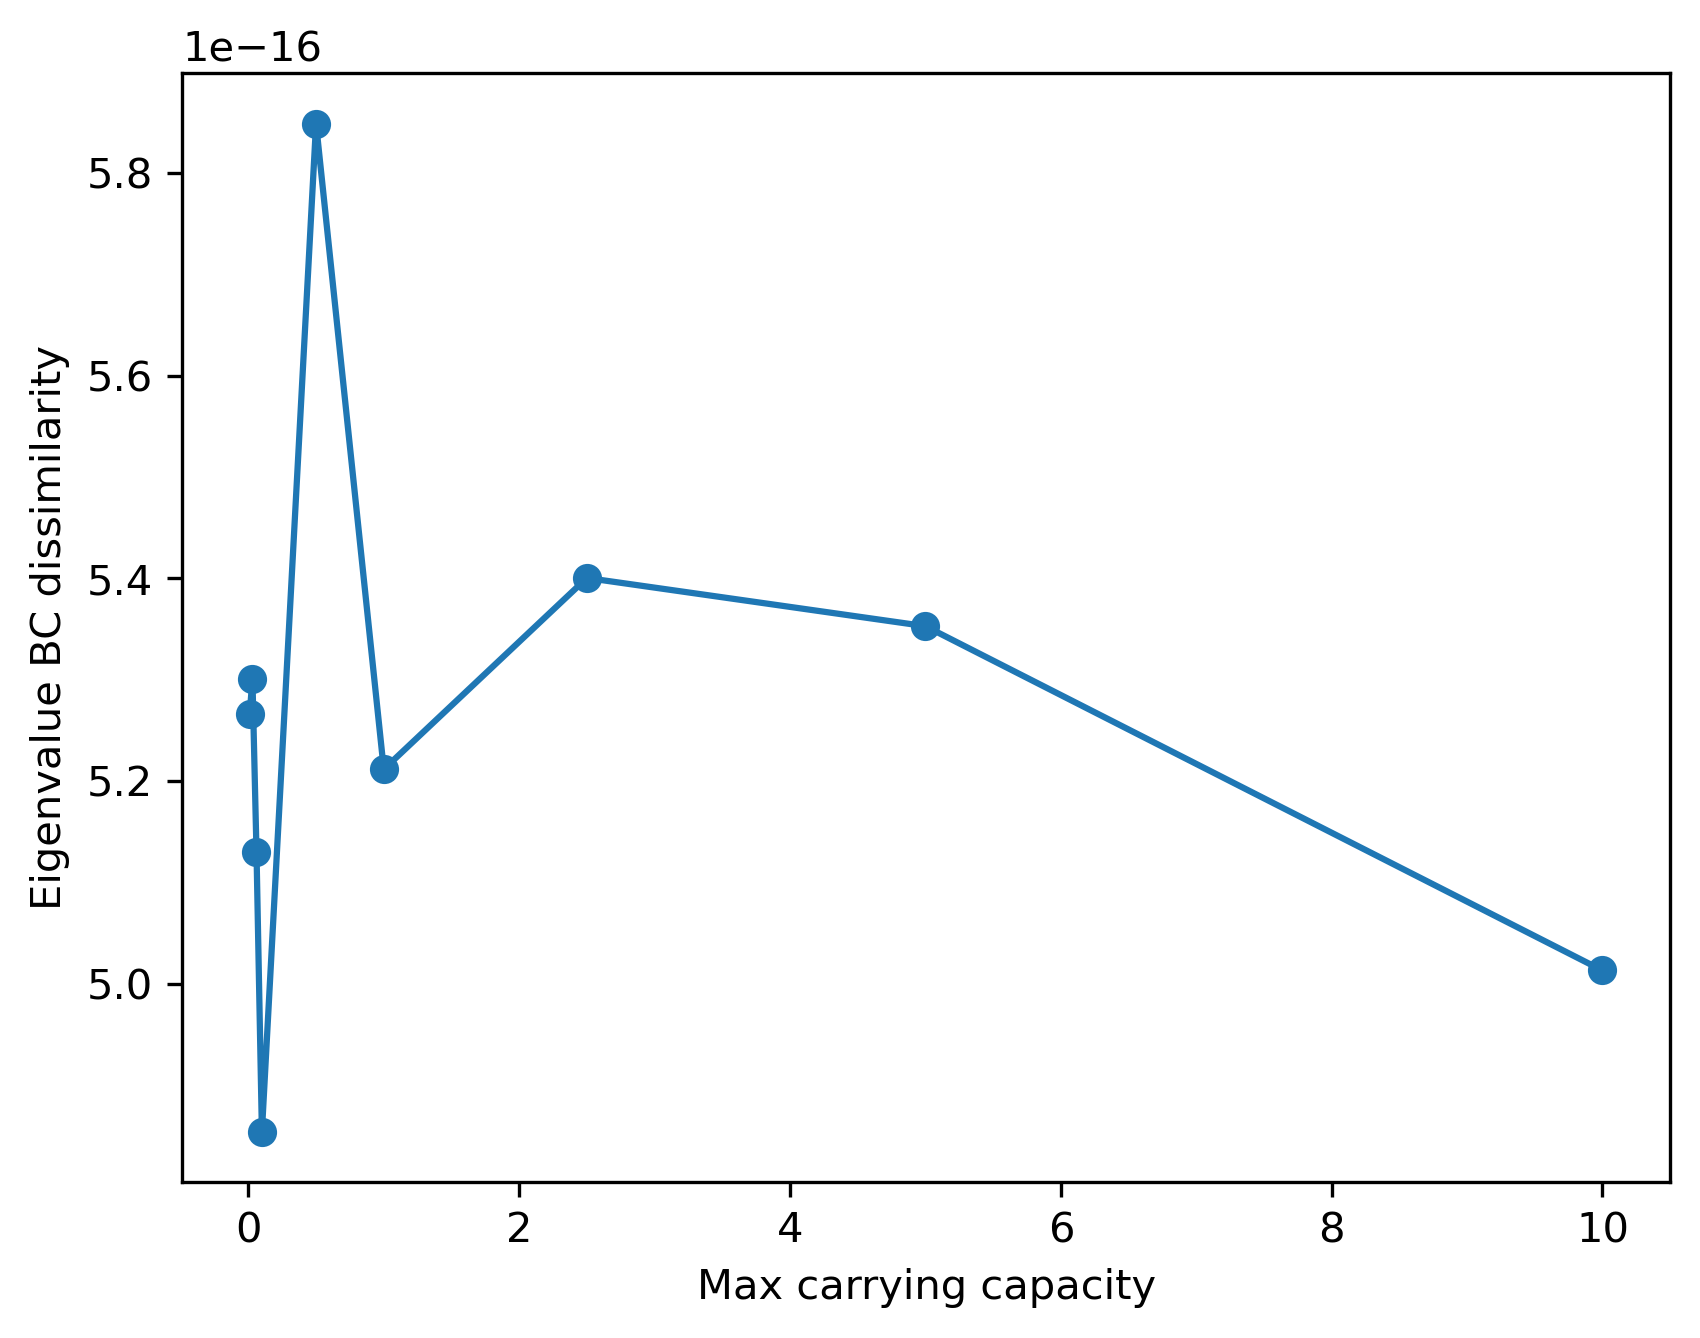
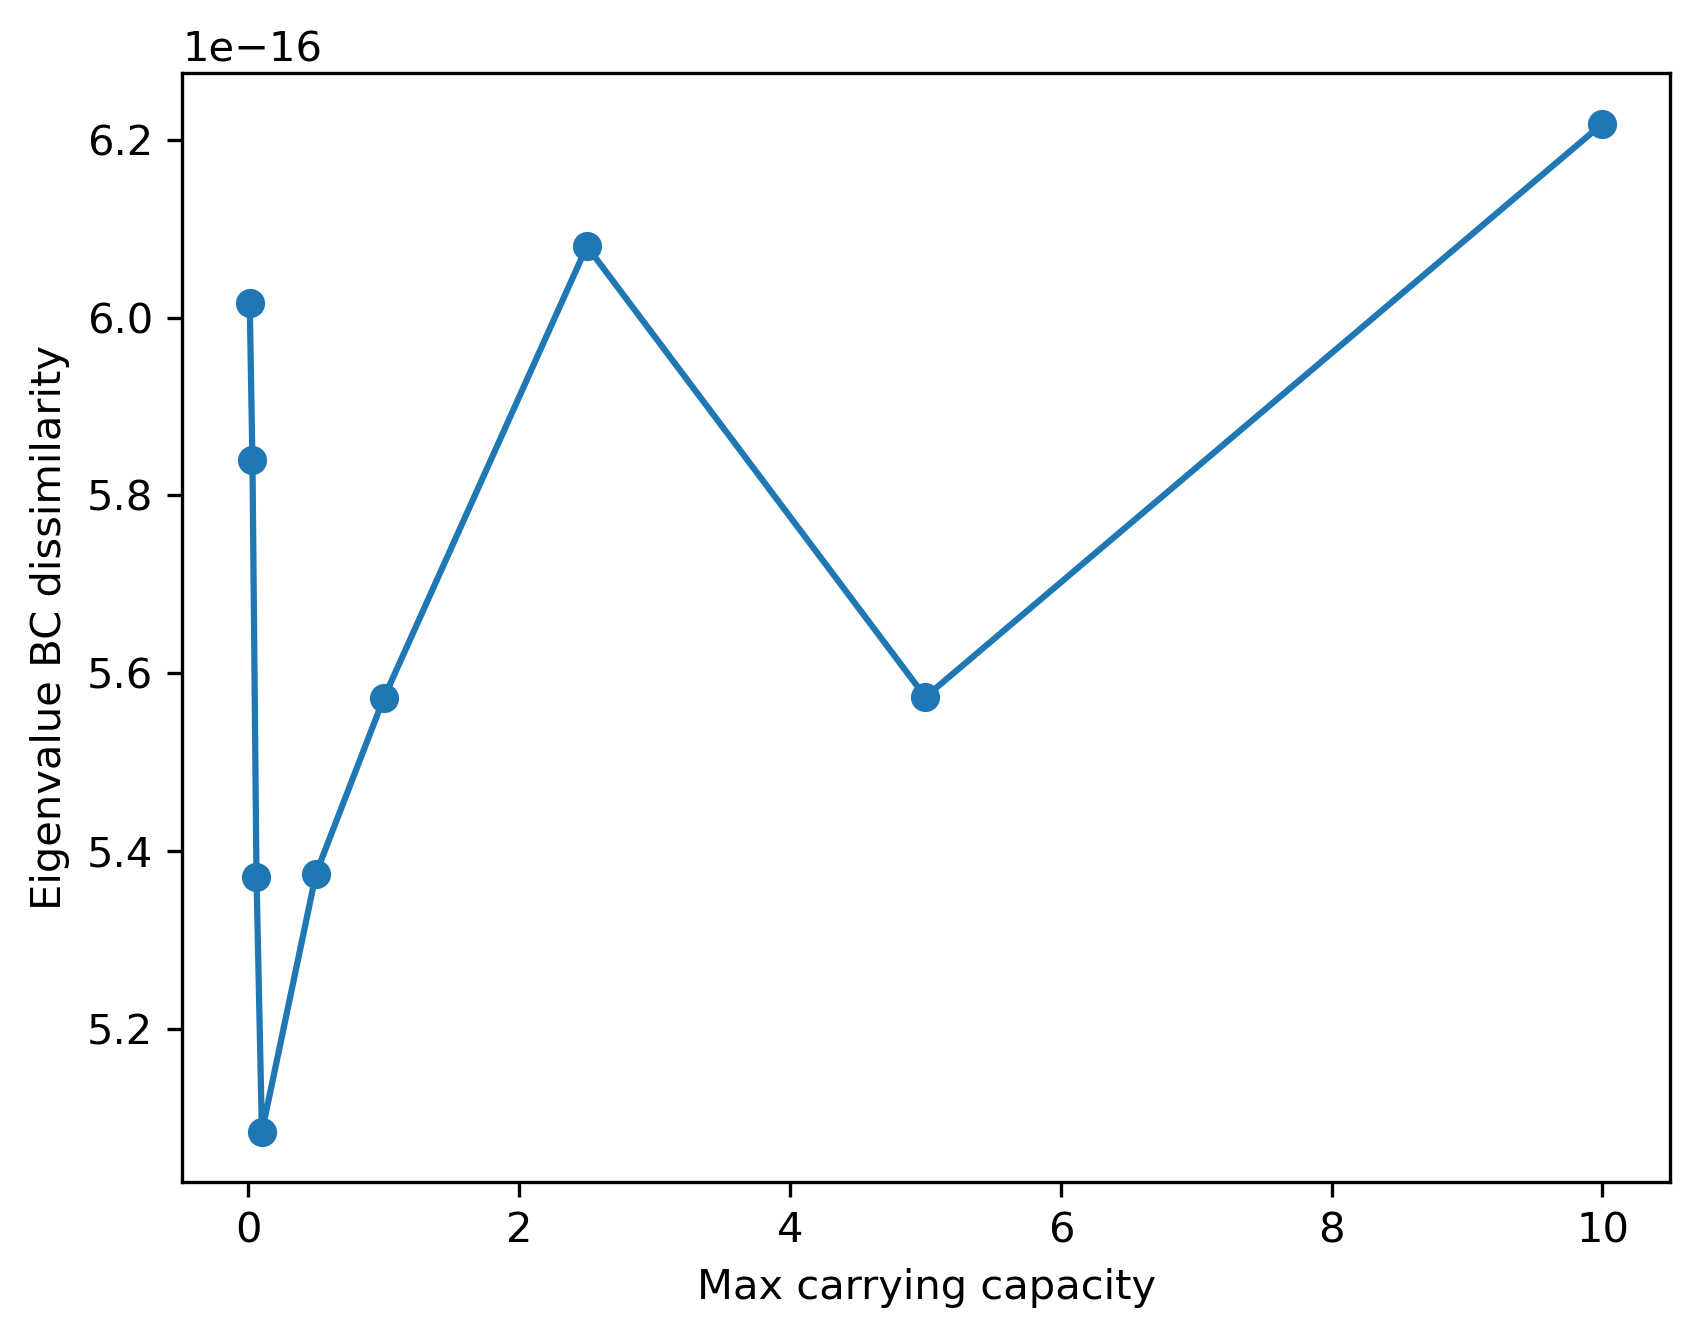
Update number of replicates
Images are updated to reflect parameter change.

diff --git a/code_feeding_kernel.py b/code_feeding_kernel.py
@@ -9,7 +9,7 @@ from scipy.spatial import distance
 #! Global Parameters
 N = 20 # number of agent populations (predators) is N+1
 M = 80 # number of subject populations (prey) is M+1
-T = 400 # number of timesteps
+T = 500 # number of timesteps
 dt = 0.05 # length of timestep for forward Euler
 
 #! Mutation rate (i.e., how ofter you update a diet preference)
@@ -21,7 +21,7 @@ P = 2 # Deactivating mutation
 Kmax_array=(0.01,0.03,0.06,0.1,0.5,1.0,2.5,5.0,10.0)
 nK=np.count_nonzero(Kmax_array)
 
-nreps=8
+nreps=25
 ik=0
 #initialization of the arrays that are averaged over replicates for a given Kmax:
 meanBCav_Kmax=np.zeros((nK))

diff --git a/code.py b/code.py
@@ -21,7 +21,7 @@ P = 2 # Deactivating mutation
 Kmax_array=(0.01,0.03,0.06,0.1,0.5,1.0,2.5,5.0,10.0)
 nK=np.count_nonzero(Kmax_array)
 
-nreps=8
+nreps=25
 ik=0
 #initialization of the arrays that are averaged over replicates for a given Kmax:
 meanBCav_Kmax=np.zeros((nK))
